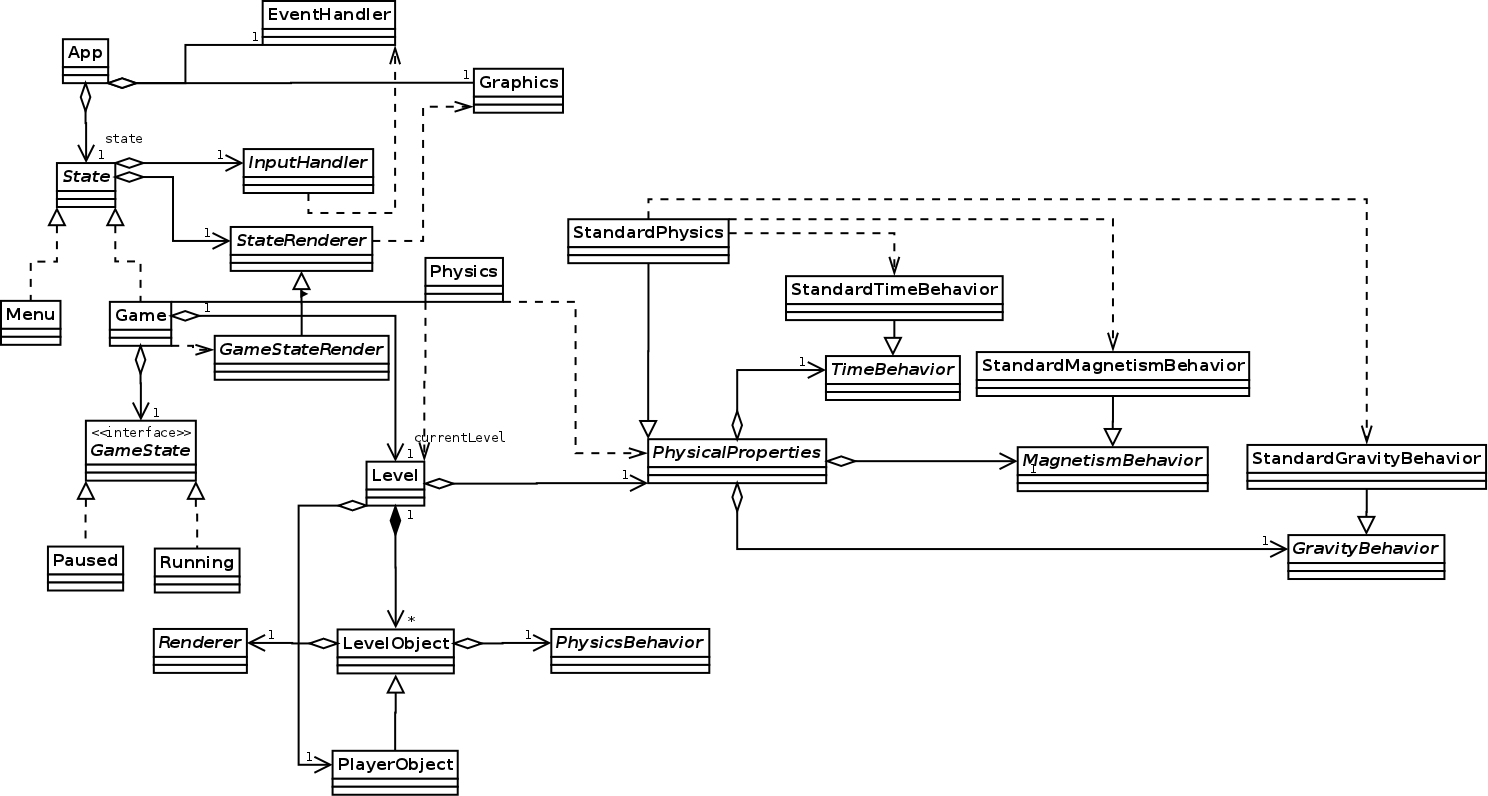
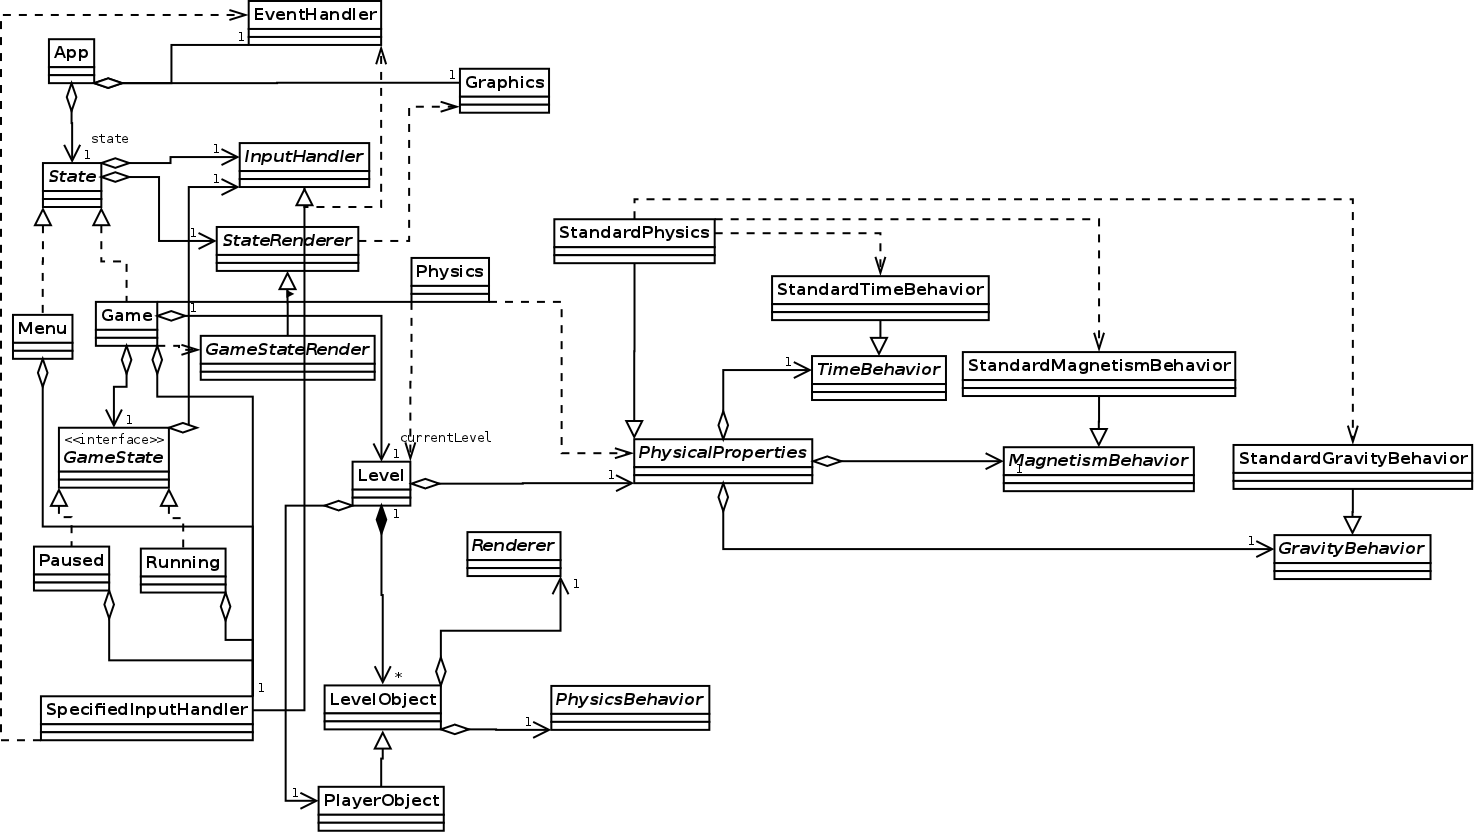
Implemented IO functionality/structure.

Changed region(s): [[0.0, 0.0, 1.0, 1.0]]

diff --git a/src/IO/EventHandler.cpp b/src/IO/EventHandler.cpp
@@ -1,0 +1,32 @@
+/* 
+ * File:   EventHandler.cpp
+ * Author: jonathan
+ * 
+ * Created on 31. Oktober 2011, 16:14
+ */
+
+#include "EventHandler.h"
+
+EventHandler::EventHandler() {}
+
+EventHandler::EventHandler(ALLEGRO_DISPLAY* display) {
+    this->display = display;
+    eventQueue = al_create_event_queue();
+    if (al_install_keyboard()) {
+        al_register_event_source(eventQueue, al_get_keyboard_event_source());
+    }
+    al_register_event_source(eventQueue, al_get_display_event_source(this->display));
+}
+
+EventHandler::EventHandler(const EventHandler& orig) {}
+
+ALLEGRO_EVENT* EventHandler::getEvent(){
+    ALLEGRO_EVENT* event;
+    ALLEGRO_TIMEOUT timeout;
+    al_init_timeout(&timeout, 0.05);
+    al_wait_for_event_until(this->eventQueue, event, &timeout);
+    return event;
+}
+
+EventHandler::~EventHandler() {}
+

diff --git a/src/Graphics/Graphics.h b/src/Graphics/Graphics.h
@@ -18,10 +18,6 @@
   */
 
 class Graphics {
-    
-private:
-    ALLEGRO_DISPLAY *display;
-    
 public:
     
     /**
@@ -29,6 +25,8 @@ public:
      * @return an instance of this Graphics
      */
     static Graphics* getInstance();
+    
+    ALLEGRO_DISPLAY* getDisplay();
     
     /**
      * Draws bitmaps at a given position on the screen (back buffer bitmap)
@@ -41,6 +39,8 @@ public:
      * Implementation should call al_flip_display
      */
     void flipDisplay();
+    
+    void destroyDisplay();
 
     /**
      * Should at least destroy the ALLEGRO_DISPLAY.
@@ -60,6 +60,8 @@ private:
      * Thie Singleton of this class.
      */
     static Graphics* graphicsInstance;
+    
+    ALLEGRO_DISPLAY *display;
 
 };
 

diff --git a/src/IO/StateInputHandler/RunningInputHandler.cpp b/src/IO/StateInputHandler/RunningInputHandler.cpp
@@ -1,0 +1,28 @@
+/* 
+ * File:   RunningInputHandler.cpp
+ * Author: jonathan
+ * 
+ * Created on 31. Oktober 2011, 18:49
+ */
+
+#include "RunningInputHandler.h"
+#include "../../Graphics/Graphics.h"
+
+RunningInputHandler::RunningInputHandler() {}
+
+RunningInputHandler::RunningInputHandler(EventHandler* eventHandler) : InputHandler (eventHandler) {
+    this->keys = new bool[3];
+}
+
+bool* RunningInputHandler::getInput() {
+    if (this->eventHandler->getEvent()->type == ALLEGRO_EVENT_DISPLAY_CLOSE) {
+        Graphics::getInstance()->destroyDisplay();
+    }
+    
+    return this->keys;
+}
+
+RunningInputHandler::RunningInputHandler(const RunningInputHandler& orig) {}
+
+RunningInputHandler::~RunningInputHandler() {}
+

diff --git a/src/App.cpp b/src/App.cpp
@@ -2,11 +2,12 @@
 #include <allegro5/allegro.h>
 #include "App.h"
 #include "Graphics/GameStateRenderer.h"
+#include "IO/EventHandler.h"
 
 App::App() {
-    Graphics::getInstance();
+    eventHandler = new EventHandler(Graphics::getInstance()->getDisplay());
     GameStateRenderer* gameStateRenderer = new GameStateRenderer();
-    game = new Game(this, gameStateRenderer);
+    game = new Game(this, gameStateRenderer, eventHandler);
     currentState = game;
     this->setExit(false);
 }
@@ -15,6 +16,7 @@ void App::fire() {
     while (!exit) {
         currentState->execute();
     }
+    al_destroy_display(Graphics::getInstance()->getDisplay());
 }
 
 App::~App() {

diff --git a/src/Graphics/Graphics.cpp b/src/Graphics/Graphics.cpp
@@ -23,6 +23,10 @@ Graphics::Graphics () {
     }
 }
 
+ALLEGRO_DISPLAY* Graphics::getDisplay() {
+    return this->display;
+}
+
 void Graphics::render(ALLEGRO_BITMAP* bitmap, Vector2D drawPosition) {
     al_set_target_bitmap(al_get_backbuffer(display));
     al_draw_bitmap(bitmap, drawPosition[0], drawPosition[1], 0);
@@ -31,6 +35,10 @@ void Graphics::render(ALLEGRO_BITMAP* bitmap, Vector2D drawPosition) {
 void Graphics::flipDisplay() {
     al_flip_display();
     al_clear_to_color(al_map_rgb(0, 0, 0));
+}
+
+void Graphics::destroyDisplay() {
+    al_destroy_display(display);
 }
 
 Graphics::~Graphics () {

diff --git a/src/IO/StateInputHandler/RunningInputHandler.h b/src/IO/StateInputHandler/RunningInputHandler.h
@@ -1,0 +1,28 @@
+/* 
+ * File:   RunningInputHandler.h
+ * Author: jonathan
+ *
+ * Created on 31. Oktober 2011, 18:49
+ */
+
+#ifndef RUNNINGINPUTHANDLER_H
+#define	RUNNINGINPUTHANDLER_H
+
+#include "../InputHandler.h"
+enum RunningKeys {
+    KEY_POSITIVE, KEY_NEGATIVE, EXIT
+};
+
+class RunningInputHandler : virtual public InputHandler {
+public:
+    RunningInputHandler();
+    RunningInputHandler(EventHandler* eventHandler);
+    RunningInputHandler(const RunningInputHandler& orig);
+    bool* getInput();
+    virtual ~RunningInputHandler();
+private:
+
+};
+
+#endif	/* RUNNINGINPUTHANDLER_H */
+

diff --git a/src/IO/EventHandler.h b/src/IO/EventHandler.h
@@ -1,0 +1,27 @@
+/* 
+ * File:   EventHandler.h
+ * Author: jonathan
+ *
+ * Created on 31. Oktober 2011, 16:14
+ */
+
+#ifndef EVENTHANDLER_H
+#define	EVENTHANDLER_H
+
+#include <allegro5/allegro5.h>
+#include <allegro5/events.h>
+
+class EventHandler {
+public:
+    EventHandler();
+    EventHandler(ALLEGRO_DISPLAY* display);
+    EventHandler(const EventHandler& orig);
+    ALLEGRO_EVENT* getEvent();
+    virtual ~EventHandler();
+private:
+    ALLEGRO_DISPLAY* display;
+    ALLEGRO_EVENT_QUEUE* eventQueue;
+};
+
+#endif	/* EVENTHANDLER_H */
+

diff --git a/src/AppStates/Game.cpp b/src/AppStates/Game.cpp
@@ -6,9 +6,9 @@
 // Constructors/Destructors
 //  
 
-Game::Game(App* app, GameStateRenderer* gameStateRenderer) : AppState(app, gameStateRenderer) {
+Game::Game(App* app, GameStateRenderer* gameStateRenderer, EventHandler* eventHandler) : AppState(app, gameStateRenderer, eventHandler) {
     this->setExit(false);
-    Running* running = new Running(this);
+    Running* running = new Running(this, this->eventHandler);
     currentState = running;
     currentLevel = new Level();
     physics = new Physics(currentLevel);

diff --git a/src/GameStates/Running.cpp b/src/GameStates/Running.cpp
@@ -1,14 +1,17 @@
 #include "Running.h"
 #include <stdio.h>
+#include "../IO/StateInputHandler/RunningInputHandler.h"
 
 // Constructors/Destructors
 //  
 
 Running::Running() {}
 
-Running::Running (Game* game) : GameState (game) {}
+Running::Running (Game* game, EventHandler* eventHandler) : GameState (game, eventHandler) {}
 
 void Running::reactOnInput() {
+//    RunningInputHandler* input = new RunningInputHandler(eventHandler);
+//    input->getInput();
     printf("It works!");
 }
 

diff --git a/src/AppStates/AppState.h b/src/AppStates/AppState.h
@@ -6,6 +6,7 @@
 #include "../Graphics/StateRenderer.h"
 
 class App;
+class EventHandler;
 
 /**
   * interface State
@@ -16,11 +17,12 @@ class AppState {
 protected:
     StateRenderer* stateRenderer;
     App* app;
+    EventHandler* eventHandler;
     
 public:
     
     AppState ();
-    AppState (App* app, StateRenderer* stateRenderer);
+    AppState (App* app, StateRenderer* stateRenderer, EventHandler* eventHandler);
     
     virtual void execute() = 0;
     

diff --git a/src/IO/InputHandler.h b/src/IO/InputHandler.h
@@ -8,13 +8,18 @@
 #ifndef INPUTHANDLER_H
 #define	INPUTHANDLER_H
 
+#include "EventHandler.h"
+
 class InputHandler {
 public:
     InputHandler();
+    InputHandler(EventHandler* eventHandler);
+    virtual bool* getInput() = 0;
     InputHandler(const InputHandler& orig);
     virtual ~InputHandler();
-private:
-
+protected:
+    bool* keys;
+    EventHandler* eventHandler;
 };
 
 #endif	/* INPUTHANDLER_H */

diff --git a/src/AppStates/Options.cpp b/src/AppStates/Options.cpp
@@ -1,9 +1,9 @@
 #include "Options.h"
 
 // Constructors/Destructors
-//  
+// 
 
-Options::Options (App* app, StateRenderer* stateRenderer) : AppState (app, stateRenderer) {}//TODO OptionsStateRenderer!!
+Options::Options (App* app, StateRenderer* stateRenderer, EventHandler* eventHandler) : AppState (app, stateRenderer, eventHandler) {}//TODO OptionsStateRenderer!!
 
 void Options::execute() {}
 
